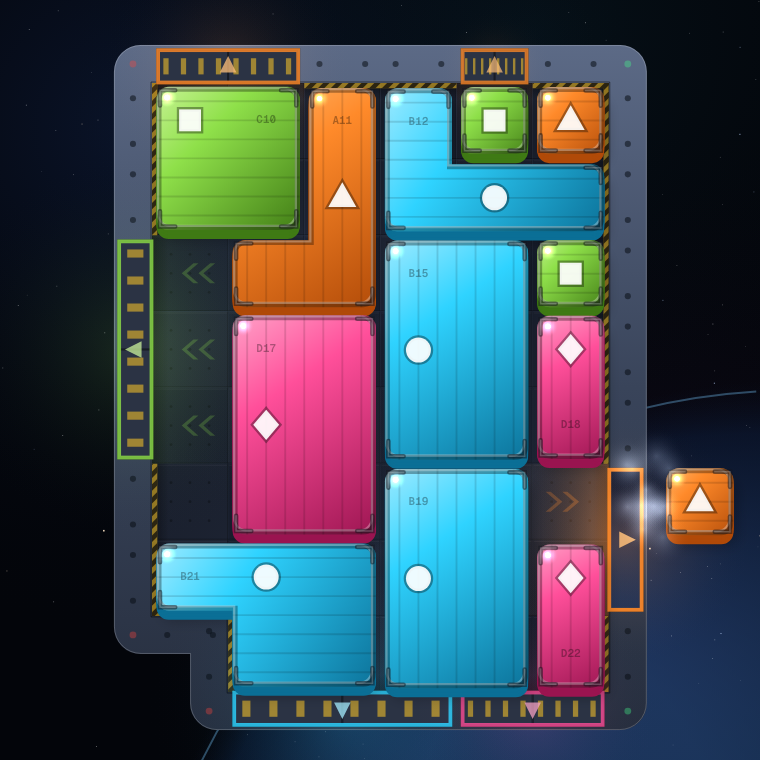
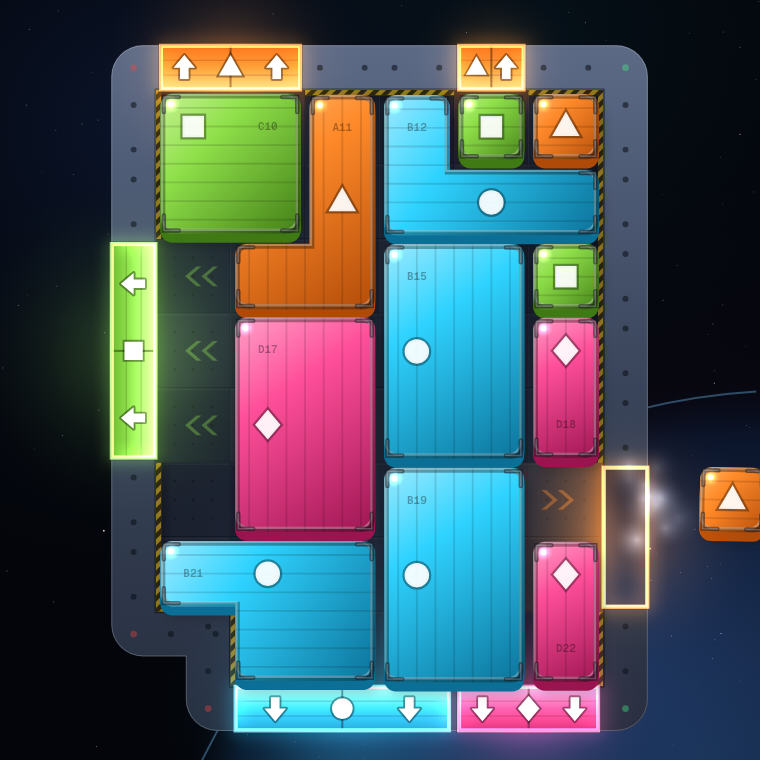
Jettison: glowing airlock doors, and the key art in the featured rotation
The doors were dark slots with a thin colored outline and were hard to
see. Each is now a pair of leaves in its own color, lit from within,
with the color's glyph and white arrows pointing out, in a glowing
frame that fills the full depth of the hull. Card and share image
re-rendered to match.

The owner's key art joins the home page's featured rotation and the All
Toys newest panel.

Changed region(s): [[0.1211, 0.0303, 1.0, 0.9987], [0.8171, 0.0605, 0.8474, 0.0908]]

diff --git a/toys/jettison/script.js b/toys/jettison/script.js
@@ -71,7 +71,7 @@
 
   /* ------------------------------------------------------------ layout */
 
-  var W = 0, H = 0, DPR = 1, c = 40, ox = 0, oy = 0, BT = 0.5;   // BT: bulkhead thickness, cells
+  var W = 0, H = 0, DPR = 1, c = 40, ox = 0, oy = 0, BT = 0.6;   // BT: bulkhead thickness, cells
   var bg = null, deck = null;
 
   function layout() {
@@ -327,7 +327,7 @@
     L.gates.forEach(function (g) {
       var col = COLORS[g.color % COLORS.length], ang = [Math.PI, 0, -Math.PI / 2, Math.PI / 2][g.d];
       x.save();
-      x.globalAlpha = 0.22;
+      x.globalAlpha = 0.3;
       x.fillStyle = col.base;
       for (var a2 = g.from; a2 <= g.to; a2++) {
         var cx = g.d < 2 ? sx(g.line + 0.5) : sx(a2 + 0.5), cy = g.d < 2 ? sy(a2 + 0.5) : sy(g.line + 0.5);
@@ -365,13 +365,13 @@
     x.restore();
   }
 
-  // an airlock's opening in screen space (inside the hull band)
+  // an airlock's opening in screen space: the full depth of the hull band
   function gateRect(g) {
-    var bt = BT * c, inset = c * 0.08, span = (g.to - g.from + 1) * c - inset * 2;
-    if (g.side === "L") return { x: sx(g.line) - bt * 0.85 - 0.5, y: sy(g.from) + inset, w: bt * 0.85, h: span };
-    if (g.side === "R") return { x: sx(g.line + 1) + 0.5, y: sy(g.from) + inset, w: bt * 0.85, h: span };
-    if (g.side === "T") return { x: sx(g.from) + inset, y: sy(g.line) - bt * 0.85 - 0.5, w: span, h: bt * 0.85 };
-    return { x: sx(g.from) + inset, y: sy(g.line + 1) + 0.5, w: span, h: bt * 0.85 };
+    var bt = BT * c, inset = c * 0.06, span = (g.to - g.from + 1) * c - inset * 2;
+    if (g.side === "L") return { x: sx(g.line) - bt, y: sy(g.from) + inset, w: bt, h: span };
+    if (g.side === "R") return { x: sx(g.line + 1), y: sy(g.from) + inset, w: bt, h: span };
+    if (g.side === "T") return { x: sx(g.from) + inset, y: sy(g.line) - bt, w: span, h: bt };
+    return { x: sx(g.from) + inset, y: sy(g.line + 1), w: span, h: bt };
   }
 
   /* ------------------------------------------------------- the modules */
@@ -512,44 +512,81 @@
 
   /* ------------------------------------------------------ the airlocks */
 
+  // An airlock: two door leaves in the lock's own color, lit from within,
+  // printed with its glyph and an arrow out, in a glowing frame. Owner,
+  // 2026-10-03: the first doors (dark slots with a colored outline) were
+  // hard to see; the key art's glowing panels are the target.
+  var OUT_ANG = [Math.PI, 0, -Math.PI / 2, Math.PI / 2];
   function drawDoors(x) {
     G.level.gates.forEach(function (g, k) {
       var d = G.doors[k], o = gateRect(g), col = COLORS[g.color % COLORS.length];
-      var open = d.open, horiz = g.side === "T" || g.side === "B";
-      var glow = 0.45 + d.glow * 0.55 + 0.08 * Math.sin(G.clock * 2 + k);
+      var open = d.open, horiz = g.d >= 2;
+      var glow = 0.72 + d.glow * 0.28 + 0.07 * Math.sin(G.clock * 2.2 + k * 1.3);
+      var gx = o.x + o.w / 2, gy = o.y + o.h / 2;
+      // the halo it throws over the hull and into space
       x.save();
       x.globalCompositeOperation = "lighter";
-      var gx = o.x + o.w / 2, gy = o.y + o.h / 2, gr = Math.max(o.w, o.h) * 0.9;
+      var gr = Math.max(o.w, o.h) * 0.7 + c * 0.55;
       var lg = x.createRadialGradient(gx, gy, 0, gx, gy, gr);
-      lg.addColorStop(0, hexA(col.base, 0.3 * glow)); lg.addColorStop(1, "rgba(0,0,0,0)");
+      lg.addColorStop(0, hexA(col.base, 0.4 * glow)); lg.addColorStop(0.45, hexA(col.base, 0.12 * glow)); lg.addColorStop(1, "rgba(0,0,0,0)");
       x.fillStyle = lg; x.fillRect(gx - gr, gy - gr, gr * 2, gr * 2);
       x.restore();
-      // door leaves sliding apart along the bulkhead
+      // the leaves, parting along the bulkhead
       x.save();
       x.beginPath(); x.rect(o.x, o.y, o.w, o.h); x.clip();
-      var leafCol = "#2b3344";
       if (horiz) {
         var lw = o.w / 2 * (1 - open);
-        doorLeaf(x, o.x, o.y, lw, o.h, leafCol, true);
-        doorLeaf(x, o.x + o.w - lw, o.y, lw, o.h, leafCol, true);
+        doorLeaf(x, o.x, o.y, lw, o.h, col, g.d, glow);
+        doorLeaf(x, o.x + o.w - lw, o.y, lw, o.h, col, g.d, glow);
       } else {
         var lh = o.h / 2 * (1 - open);
-        doorLeaf(x, o.x, o.y, o.w, lh, leafCol, false);
-        doorLeaf(x, o.x, o.y + o.h - lh, o.w, lh, leafCol, false);
+        doorLeaf(x, o.x, o.y, o.w, lh, col, g.d, glow);
+        doorLeaf(x, o.x, o.y + o.h - lh, o.w, lh, col, g.d, glow);
+      }
+      // the glyph (so color is never the only cue) and the way out
+      var fade = Math.max(0, 1 - open * 1.8);
+      if (fade > 0) {
+        var n = g.to - g.from + 1, ux = horiz ? 1 : 0, uy = horiz ? 0 : 1;
+        var span = horiz ? o.w : o.h, depth = horiz ? o.h : o.w;
+        var r = Math.min(depth * 0.3, c * 0.17), ang = OUT_ANG[g.d];
+        x.globalAlpha = fade;
+        if (n === 1) {
+          glyph(x, col.glyph, gx - ux * c * 0.2, gy - uy * c * 0.2, r * 0.9, "#ffffff", "rgba(0,0,0,0.4)");
+          outArrow(x, gx + ux * c * 0.2, gy + uy * c * 0.2, ang, r);
+        } else {
+          var off = Math.min(span / 2 - c * 0.32, n >= 3 ? c * 0.9 : c * 0.62);
+          glyph(x, col.glyph, gx, gy, r, "#ffffff", "rgba(0,0,0,0.4)");
+          outArrow(x, gx - ux * off, gy - uy * off, ang, r);
+          outArrow(x, gx + ux * off, gy + uy * off, ang, r);
+        }
+        x.globalAlpha = 1;
       }
       x.restore();
-      x.strokeStyle = hexA(col.base, 0.65 + 0.35 * glow); x.lineWidth = Math.max(1.5, c * 0.05);
-      x.strokeRect(o.x, o.y, o.w, o.h);
+      // a neon frame round the opening
+      x.save();
+      x.globalCompositeOperation = "lighter";
+      x.shadowColor = col.base; x.shadowBlur = c * 0.3 * glow;
+      x.strokeStyle = hexA(col.hi, 0.7 + 0.3 * d.glow); x.lineWidth = Math.max(1.5, c * 0.055);
+      x.strokeRect(o.x + 0.5, o.y + 0.5, o.w - 1, o.h - 1);
+      x.restore();
       // too wide for this lock: a red flash on the frame
       if (d.deny > 0) {
         x.strokeStyle = "rgba(255,70,60," + (d.deny * (0.6 + 0.4 * Math.sin(G.clock * 40))).toFixed(3) + ")";
         x.lineWidth = Math.max(2, c * 0.08);
         x.strokeRect(o.x - 2, o.y - 2, o.w + 4, o.h + 4);
       }
-      // an arrow on the door: this way out
-      x.fillStyle = hexA(col.hi, 0.55 + 0.4 * glow);
-      tri(x, gx, gy, [Math.PI, 0, -Math.PI / 2, Math.PI / 2][g.d], Math.min(o.w, o.h) * 0.32);
     });
+  }
+
+  // a block arrow, white with a dark edge, pointing out through the lock
+  function outArrow(x, cx, cy, ang, s) {
+    x.save(); x.translate(cx, cy); x.rotate(ang);
+    x.beginPath();
+    x.moveTo(s, 0); x.lineTo(0, -s * 0.85); x.lineTo(0, -s * 0.34); x.lineTo(-s * 0.9, -s * 0.34);
+    x.lineTo(-s * 0.9, s * 0.34); x.lineTo(0, s * 0.34); x.lineTo(0, s * 0.85); x.closePath();
+    x.strokeStyle = "rgba(0,0,0,0.4)"; x.lineWidth = Math.max(1, s * 0.3); x.lineJoin = "round"; x.stroke();
+    x.fillStyle = "#ffffff"; x.fill();
+    x.restore();
   }
 
   // each airlock throws its color across the deck in front of it
@@ -558,7 +595,7 @@
     x.globalCompositeOperation = "lighter";
     G.level.gates.forEach(function (g, k) {
       var col = COLORS[g.color % COLORS.length], d = G.doors[k];
-      var a = 0.07 + d.glow * 0.18 + d.open * 0.1, depth = 1.6 * c, span = (g.to - g.from + 1) * c, rx, ry, rw, rh, x0, y0, x1, y1;
+      var a = 0.12 + d.glow * 0.2 + d.open * 0.1, depth = 1.8 * c, span = (g.to - g.from + 1) * c, rx, ry, rw, rh, x0, y0, x1, y1;
       if (g.side === "L") { rx = sx(g.line); ry = sy(g.from); rw = depth; rh = span; x0 = rx; y0 = 0; x1 = rx + depth; y1 = 0; }
       else if (g.side === "R") { rx = sx(g.line + 1) - depth; ry = sy(g.from); rw = depth; rh = span; x0 = sx(g.line + 1); y0 = 0; x1 = rx; y1 = 0; }
       else if (g.side === "T") { rx = sx(g.from); ry = sy(g.line); rw = span; rh = depth; x0 = 0; y0 = ry; x1 = 0; y1 = ry + depth; }
@@ -594,16 +631,24 @@
     });
   }
 
-  function doorLeaf(x, l, t, w, h, colr, horiz) {
+  // one door leaf: the lock's color, brightest on the side facing the hold,
+  // with a lit sheen and two panel seams along it
+  function doorLeaf(x, l, t, w, h, col, dir, glow) {
     if (w <= 0.5 || h <= 0.5) return;
-    x.fillStyle = colr; x.fillRect(l, t, w, h);
-    x.fillStyle = "rgba(255,200,40,0.55)";
-    var n = 4;
-    for (var k = 0; k < n; k++) {
-      if (horiz) x.fillRect(l + w * (k + 0.3) / n, t + h * 0.25, w / n * 0.3, h * 0.5);
-      else x.fillRect(l + w * 0.25, t + h * (k + 0.3) / n, w * 0.5, h / n * 0.3);
+    var horiz = dir >= 2, o = (dir === 0 || dir === 2) ? 1 : 0;   // which end faces the hold
+    var g = horiz ? x.createLinearGradient(0, t, 0, t + h) : x.createLinearGradient(l, 0, l + w, 0);
+    g.addColorStop(o ? 0 : 1, col.lo); g.addColorStop(0.5, col.base); g.addColorStop(o ? 1 : 0, col.hi);
+    x.fillStyle = g; x.fillRect(l, t, w, h);
+    x.save();
+    x.globalCompositeOperation = "lighter";
+    x.fillStyle = hexA(col.hi, 0.16 * glow); x.fillRect(l, t, w, h);
+    x.restore();
+    x.fillStyle = "rgba(0,0,0,0.22)";
+    for (var k = 1; k < 3; k++) {
+      if (horiz) x.fillRect(l, t + h * k / 3 - 0.5, w, 1);
+      else x.fillRect(l + w * k / 3 - 0.5, t, 1, h);
     }
-    x.strokeStyle = "rgba(0,0,0,0.5)"; x.lineWidth = 1; x.strokeRect(l + 0.5, t + 0.5, w - 1, h - 1);
+    x.strokeStyle = "rgba(0,0,0,0.45)"; x.lineWidth = 1; x.strokeRect(l + 0.5, t + 0.5, w - 1, h - 1);
   }
   function hexA(h, a) {
     var n = parseInt(h.slice(1), 16);

diff --git a/assets/styles.css b/assets/styles.css
@@ -1112,7 +1112,7 @@ code, kbd{ font-family: var(--font-mono); font-size: 0.9em; }
 .card__preview[data-slug="glass-harp"]{ background: #05070f url("cards/glass-harp.png") center / cover no-repeat; }
 .card__preview[data-slug="chord-harp"]{ background: #0a0913 url("cards/chord-harp.png") center / cover no-repeat; }
 .card__preview[data-slug="barkeep"]{ background: #0b0706 url("cards/barkeep.png") center / cover no-repeat; }
-.card__preview[data-slug="jettison"]{ background: #04060c url("cards/jettison.png") center / cover no-repeat; }
+.card__preview[data-slug="jettison"]{ background: #04060c url("cards/jettison.png?v=2") center / cover no-repeat; }
 .card__preview[data-slug="meld"]{ background: #0a0706 url("cards/meld.png") center / cover no-repeat; }
 .card__preview[data-slug="maw"]{ background: #070105 url("cards/maw.png") center / cover no-repeat; }
 .card__preview[data-slug="trench-runner"]{ background: #03040c url("cards/trench-runner.png") center / cover no-repeat; }

diff --git a/all-toys/simulation/index.html b/all-toys/simulation/index.html
@@ -64,7 +64,7 @@
         } catch (e) {}
       })();
     </script>
-    <link rel="stylesheet" href="../../assets/styles.css?v=123" />
+    <link rel="stylesheet" href="../../assets/styles.css?v=124" />
   </head>
   <body data-gallery-mode="all" data-cat="simulation">
     <a class="skip-link" href="#main-content">Skip to content</a>
@@ -295,7 +295,7 @@
       </div>
     </footer>
 
-    <script src="../../assets/main.js?v=124" defer></script>
+    <script src="../../assets/main.js?v=125" defer></script>
     <script src="../../assets/theme.js?v=8" defer></script>
     <script src="../../assets/tickets.js?v=31" defer></script>
     <script src="../../assets/prizes.js?v=1" defer></script>

diff --git a/all-toys/wellness/index.html b/all-toys/wellness/index.html
@@ -64,7 +64,7 @@
         } catch (e) {}
       })();
     </script>
-    <link rel="stylesheet" href="../../assets/styles.css?v=123" />
+    <link rel="stylesheet" href="../../assets/styles.css?v=124" />
   </head>
   <body data-gallery-mode="all" data-cat="wellness">
     <a class="skip-link" href="#main-content">Skip to content</a>
@@ -295,7 +295,7 @@
       </div>
     </footer>
 
-    <script src="../../assets/main.js?v=124" defer></script>
+    <script src="../../assets/main.js?v=125" defer></script>
     <script src="../../assets/theme.js?v=8" defer></script>
     <script src="../../assets/tickets.js?v=31" defer></script>
     <script src="../../assets/prizes.js?v=1" defer></script>

diff --git a/all-toys/utility/index.html b/all-toys/utility/index.html
@@ -64,7 +64,7 @@
         } catch (e) {}
       })();
     </script>
-    <link rel="stylesheet" href="../../assets/styles.css?v=123" />
+    <link rel="stylesheet" href="../../assets/styles.css?v=124" />
   </head>
   <body data-gallery-mode="all" data-cat="utility">
     <a class="skip-link" href="#main-content">Skip to content</a>
@@ -295,7 +295,7 @@
       </div>
     </footer>
 
-    <script src="../../assets/main.js?v=124" defer></script>
+    <script src="../../assets/main.js?v=125" defer></script>
     <script src="../../assets/theme.js?v=8" defer></script>
     <script src="../../assets/tickets.js?v=31" defer></script>
     <script src="../../assets/prizes.js?v=1" defer></script>

diff --git a/all-toys/visual/index.html b/all-toys/visual/index.html
@@ -64,7 +64,7 @@
         } catch (e) {}
       })();
     </script>
-    <link rel="stylesheet" href="../../assets/styles.css?v=123" />
+    <link rel="stylesheet" href="../../assets/styles.css?v=124" />
   </head>
   <body data-gallery-mode="all" data-cat="visual">
     <a class="skip-link" href="#main-content">Skip to content</a>
@@ -295,7 +295,7 @@
       </div>
     </footer>
 
-    <script src="../../assets/main.js?v=124" defer></script>
+    <script src="../../assets/main.js?v=125" defer></script>
     <script src="../../assets/theme.js?v=8" defer></script>
     <script src="../../assets/tickets.js?v=31" defer></script>
     <script src="../../assets/prizes.js?v=1" defer></script>

diff --git a/all-toys/audio/index.html b/all-toys/audio/index.html
@@ -64,7 +64,7 @@
         } catch (e) {}
       })();
     </script>
-    <link rel="stylesheet" href="../../assets/styles.css?v=123" />
+    <link rel="stylesheet" href="../../assets/styles.css?v=124" />
   </head>
   <body data-gallery-mode="all" data-cat="audio">
     <a class="skip-link" href="#main-content">Skip to content</a>
@@ -295,7 +295,7 @@
       </div>
     </footer>
 
-    <script src="../../assets/main.js?v=124" defer></script>
+    <script src="../../assets/main.js?v=125" defer></script>
     <script src="../../assets/theme.js?v=8" defer></script>
     <script src="../../assets/tickets.js?v=31" defer></script>
     <script src="../../assets/prizes.js?v=1" defer></script>

diff --git a/all-toys/game/index.html b/all-toys/game/index.html
@@ -64,7 +64,7 @@
         } catch (e) {}
       })();
     </script>
-    <link rel="stylesheet" href="../../assets/styles.css?v=123" />
+    <link rel="stylesheet" href="../../assets/styles.css?v=124" />
   </head>
   <body data-gallery-mode="all" data-cat="game">
     <a class="skip-link" href="#main-content">Skip to content</a>
@@ -295,7 +295,7 @@
       </div>
     </footer>
 
-    <script src="../../assets/main.js?v=124" defer></script>
+    <script src="../../assets/main.js?v=125" defer></script>
     <script src="../../assets/theme.js?v=8" defer></script>
     <script src="../../assets/tickets.js?v=31" defer></script>
     <script src="../../assets/prizes.js?v=1" defer></script>

diff --git a/all-toys/index.html b/all-toys/index.html
@@ -64,7 +64,7 @@
         } catch (e) {}
       })();
     </script>
-    <link rel="stylesheet" href="../assets/styles.css?v=123" />
+    <link rel="stylesheet" href="../assets/styles.css?v=124" />
   </head>
   <body data-gallery-mode="all">
     <a class="skip-link" href="#main-content">Skip to content</a>
@@ -297,7 +297,7 @@
       </div>
     </footer>
 
-    <script src="../assets/main.js?v=124" defer></script>
+    <script src="../assets/main.js?v=125" defer></script>
     <script src="../assets/theme.js?v=8" defer></script>
     <script src="../assets/tickets.js?v=31" defer></script>
     <script src="../assets/prizes.js?v=1" defer></script>

diff --git a/index.html b/index.html
@@ -60,7 +60,7 @@
         } catch (e) {}
       })();
     </script>
-    <link rel="stylesheet" href="assets/styles.css?v=123" />
+    <link rel="stylesheet" href="assets/styles.css?v=124" />
   </head>
   <body data-gallery-mode="home">
     <a class="skip-link" href="#main-content">Skip to content</a>
@@ -289,7 +289,7 @@
       </div>
     </footer>
 
-    <script src="assets/main.js?v=124" defer></script>
+    <script src="assets/main.js?v=125" defer></script>
     <script src="assets/theme.js?v=8" defer></script>
     <script src="assets/tickets.js?v=31" defer></script>
     <script src="assets/prizes.js?v=1" defer></script>

diff --git a/assets/main.js b/assets/main.js
@@ -523,7 +523,7 @@ let featuredTool = null;
 // spotlight rotates through these — one per page load — instead of always
 // showing the newest toy. Add a slug here only once its art exists.
 const FEATURED_ART = [
-  "meld", "maw", "trench-runner",
+  "jettison", "meld", "maw", "trench-runner",
   "accretion", "air-hockey", "alpenglow", "bowling", "brick-smasher",
   "chess", "darts", "deep-descent", "deep-hollow", "dot-loop", "five-second-game",
   "mini-golf", "nova-coil", "paper-plane", "perfect-circle",

diff --git a/toys/jettison/index.html b/toys/jettison/index.html
@@ -144,7 +144,7 @@
     <script src="rules.js?v=2" defer></script>
     <script src="levels.js?v=2" defer></script>
     <script src="audio.js?v=2" defer></script>
-    <script src="script.js?v=2" defer></script>
+    <script src="script.js?v=3" defer></script>
     <script src="../../assets/prizes.js?v=1" defer></script>
     <script src="../../assets/tip-jar.js?v=10" defer></script>
     <script src="../../assets/share.js?v=6" defer></script>
